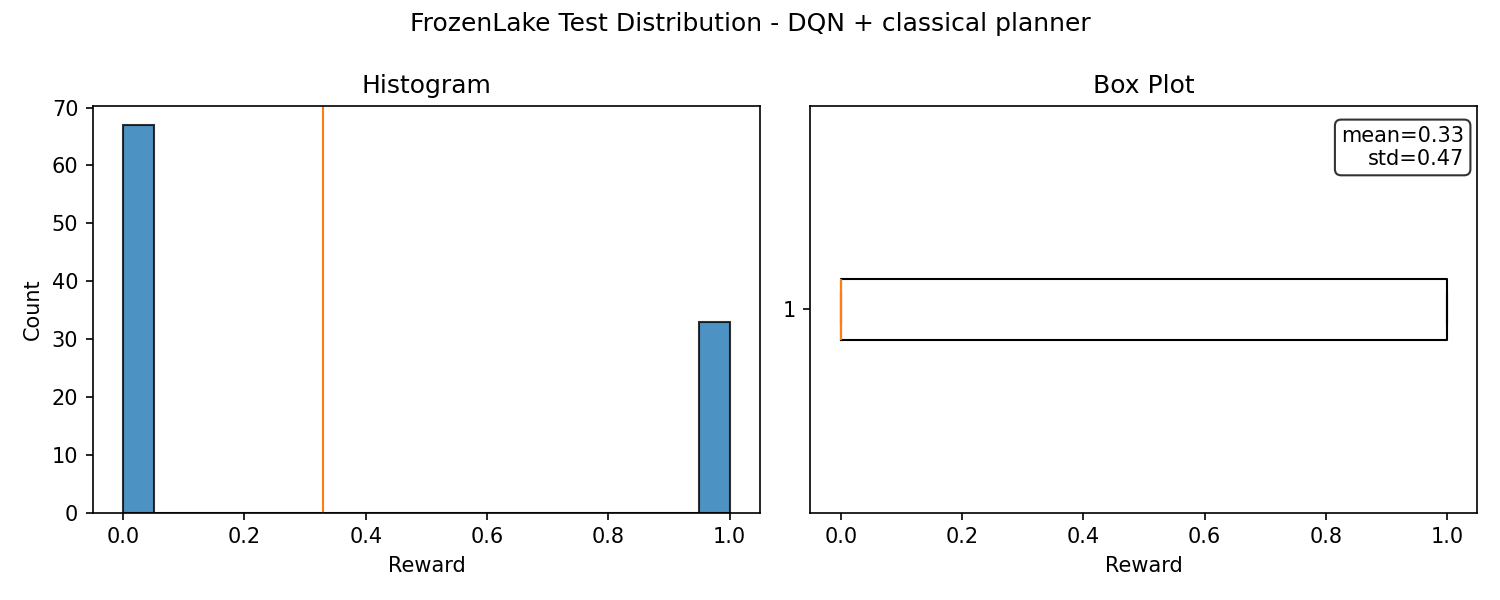
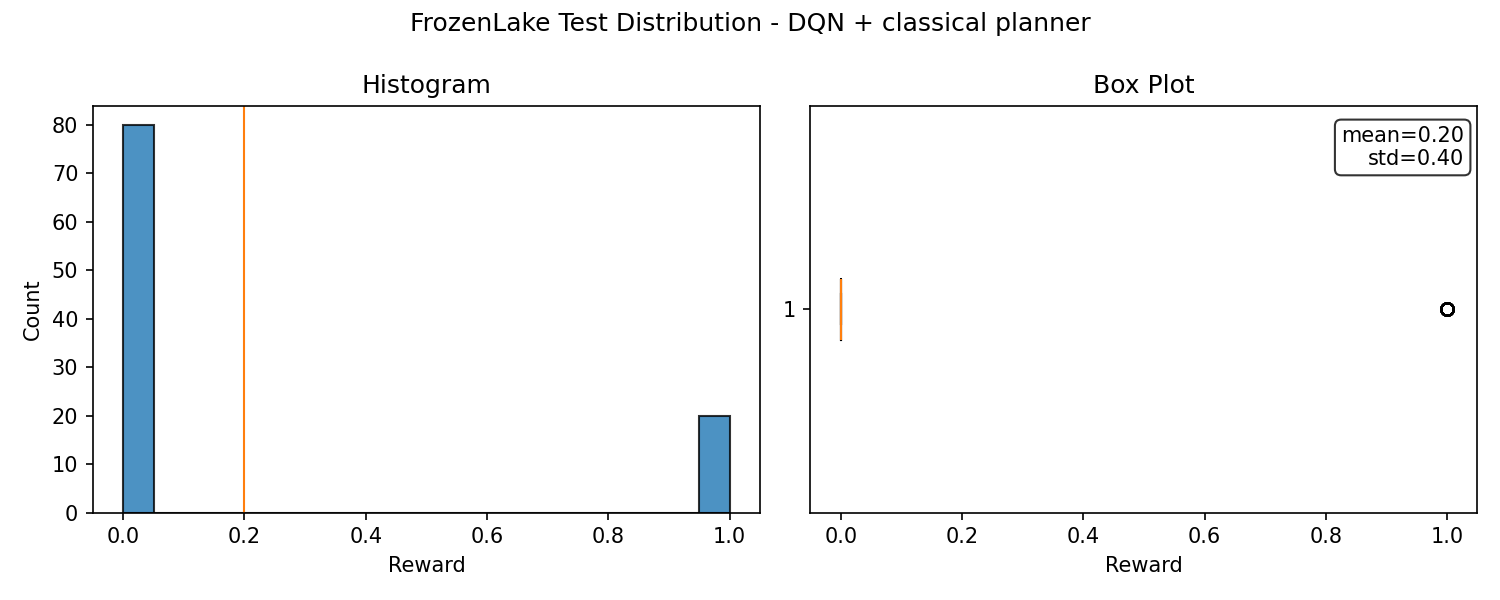
Fix most likely transition and choose nominal action if same probabilities

diff --git a/planned-deterministic-frozen-lake/planner.py b/planned-deterministic-frozen-lake/planner.py
@@ -5,47 +5,53 @@ from unified_planning.environment import get_environment
 get_environment().credits_stream = None
 
 
-def most_likely_transition(outcomes):
-    transition_scores = {}
+def most_likely_transition(outcomes, nominal_preferred=None):
+    state_probabilities = {}
 
-    for prob, next_state, reward, done in outcomes:
+    for prob, next_state, _, _ in outcomes:
         if prob == 0:
             continue
 
-        if next_state not in transition_scores:
-            transition_scores[next_state] = {
-                "prob": 0.0,
-                "reward": reward,
-                "done": done,
-            }
+        if next_state not in state_probabilities:
+            state_probabilities[next_state] = 0.0
+        state_probabilities[next_state] += prob
 
-        transition_scores[next_state]["prob"] += prob
-        transition_scores[next_state]["reward"] = max(
-            transition_scores[next_state]["reward"], reward
-        )
-        transition_scores[next_state]["done"] = (
-            transition_scores[next_state]["done"] and done
-        )
-
-    if not transition_scores:
+    if not state_probabilities:
         return None
 
-    best_next_state, best_data = max(
-        transition_scores.items(),
-        key=lambda item: (
-            item[1]["prob"],
-            item[1]["reward"],
-            0 if item[1]["done"] else 1,
-            item[0],
-        ),
-    )
-    return best_next_state, best_data
+    max_prob = max(state_probabilities.values())
+    best_states = {s for s, p in state_probabilities.items() if p == max_prob}
+
+    if nominal_preferred in best_states:
+        return nominal_preferred
+
+    # Deterministic fallback to keep planner behavior stable.
+    return min(best_states)
+
+
+def _nominal_next_state(s: int, a: int, nrow: int, ncol: int) -> int:
+    # Deterministic nominal movement: LEFT, DOWN, RIGHT, UP.
+    row = s // ncol
+    col = s % ncol
+
+    if a == 0:  # LEFT
+        col = max(0, col - 1)
+    elif a == 1:  # DOWN
+        row = min(nrow - 1, row + 1)
+    elif a == 2:  # RIGHT
+        col = min(ncol - 1, col + 1)
+    elif a == 3:  # UP
+        row = max(0, row - 1)
+
+    return row * ncol + col
 
 
 def define_problem(env, current_state):
     problem = Problem("FrozenLake-v1")
 
     n_states = env.observation_space.n
+    n_row = int(env.unwrapped.nrow)
+    n_col = int(env.unwrapped.ncol)
 
     # Type (represents the cell of the gridmap)
     Location: Type = UserType("Location")
@@ -73,11 +79,15 @@ def define_problem(env, current_state):
     for s in range(n_states):
         # For all actions possible
         for a in range(4):
-            best_transition = most_likely_transition(transitions[s][a])
+            nominal = _nominal_next_state(s, a, n_row, n_col)
+            best_transition = most_likely_transition(
+                transitions[s][a],
+                nominal_preferred=nominal,
+            )
             if best_transition is None:
                 continue
 
-            next_state, _ = best_transition
+            next_state = best_transition
             action_name = f"move_{s}_{a}"
             action = InstantaneousAction(action_name)
 

diff --git a/planned-deterministic-frozen-lake/dqn_agent.py b/planned-deterministic-frozen-lake/dqn_agent.py
@@ -16,6 +16,23 @@ import torch.optim as optim
 import planner
 
 
+def format_frozen_lake_state(env, state: int) -> str:
+    """Return an ASCII map with A=agent, S/F/H/G as tile types."""
+    desc = env.unwrapped.desc
+    ncols = int(env.unwrapped.ncol)
+    rows = []
+
+    for r, row in enumerate(desc):
+        rendered_row = []
+        for c, cell in enumerate(row):
+            idx = r * ncols + c
+            symbol = cell.decode("utf-8") if isinstance(cell, bytes) else str(cell)
+            rendered_row.append("A" if idx == state else symbol)
+        rows.append(" ".join(rendered_row))
+
+    return "\n".join(rows)
+
+
 def pick_device() -> torch.device:
     if hasattr(torch.backends, "mps") and torch.backends.mps.is_available():
         return torch.device("mps")
@@ -131,6 +148,9 @@ class DQNAgent:
             self.planner_calls += 1
             problem = planner.define_problem(env, state)
             plan = planner.build_plan(problem)
+            print("current map:")
+            print(format_frozen_lake_state(env, state))
+            print("plan: " + str(plan))
             self._plan_cache[state] = plan
             if plan is None or len(plan) == 0:
                 self.planner_misses += 1
